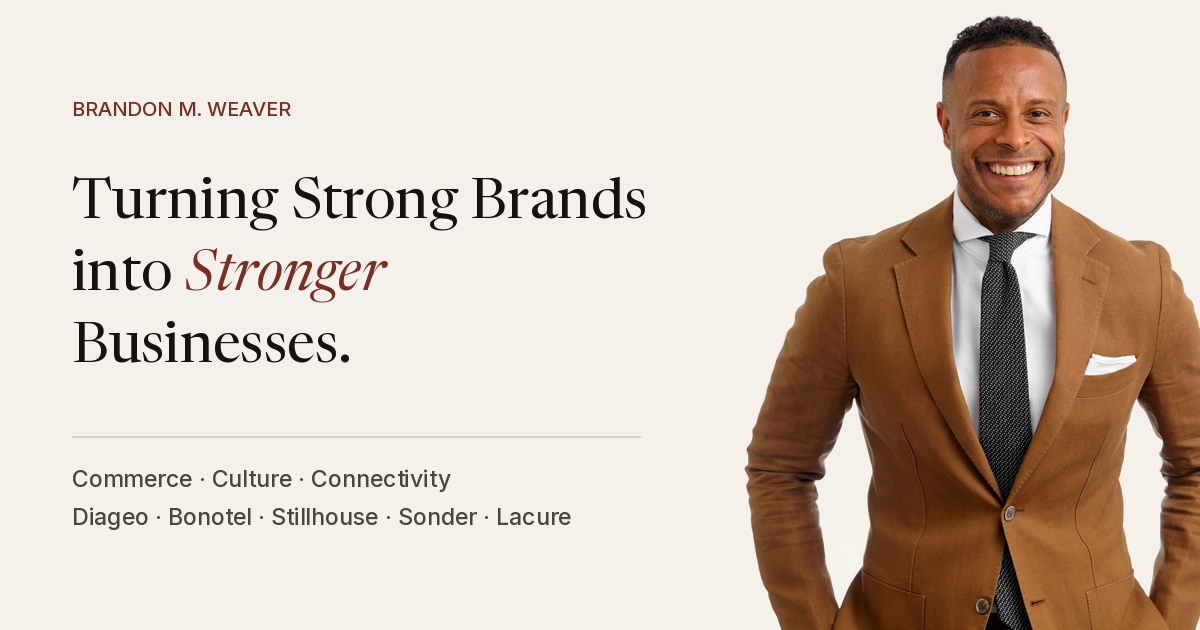
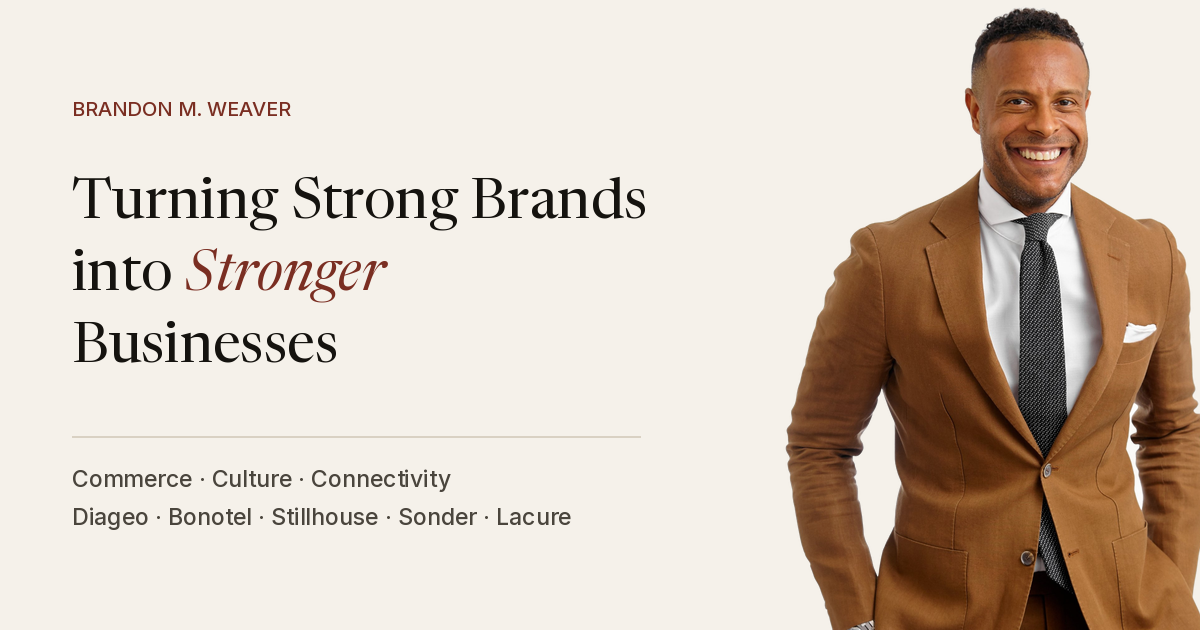
Site refinements (#2)
Claude-Session: https://claude.ai/code/session_01RkhWHDQpH7edepwexrD27q

Changed region(s): [[0.6167, 0.0, 1.0, 1.0]]

diff --git a/src/styles/global.css b/src/styles/global.css
@@ -120,12 +120,15 @@ p { margin: 0 0 1em; }
 }
 .btn:hover { background: var(--ink); border-color: var(--ink); color: var(--paper); }
 .link {
-  font-weight: 550; font-size: 0.9375rem; color: var(--ink); text-decoration: underline;
-  text-decoration-color: var(--rule); text-underline-offset: 6px; text-decoration-thickness: 1px;
-  transition: text-decoration-color .2s ease, color .2s ease;
+  display: inline-block;
+  font-weight: 600; font-size: 1.125rem; line-height: 1.4; color: var(--ink); text-decoration: none;
+  padding-bottom: 4px; border-bottom: 1px solid var(--rule);
+  transition: border-color .2s ease, color .2s ease;
 }
-.link:hover { color: var(--accent); text-decoration-color: var(--accent); }
-.link::after { content: ' →'; }
+.link:hover { color: var(--accent); border-bottom-color: var(--accent); }
+.link::after { content: '\00a0→'; display: inline-block; transition: transform .2s ease; }
+.link:hover::after { transform: translateX(3px); }
+.link--plain { font-size: 1rem; }
 .link--plain::after { content: none; }
 
 /* ---------- Reveal on scroll ---------- */

diff --git a/src/data/site.ts b/src/data/site.ts
@@ -343,8 +343,8 @@ export const celebrityFounders = [
   { name: 'Mark Wahlberg', brand: 'Flecha Azul Tequila' },
   { name: 'Gal Gadot', brand: 'Aspen Vodka' },
   { name: 'Benicio Del Toro', brand: 'Perro Verde' },
-  { name: 'Nacho Figueras', brand: 'Dom Pérignon' },
   { name: 'Michael Bublé', brand: 'Fraser & Thompson' },
+  { name: 'G-Eazy', brand: 'Stillhouse Spirits' },
 ];
 export const cultureCos = ['Universal Music', 'Sony Music', 'Complex', 'The FADER'];
 

diff --git a/README.md b/README.md
@@ -17,7 +17,7 @@ npm run build    # static output in dist/
 | All bio facts, roles, stats, testimonials, links | `src/data/site.ts` |
 | Writing list and videos | `src/data/writing.ts` |
 | Colors, type, spacing (design tokens) | `src/styles/global.css` |
-| Pages | `src/pages/` (`index`, `work`, `thought-leadership`, `about`, `404`) |
+| Pages | `src/pages/` (`index`, `experience`, `thought-leadership`, `about`, `404`) |
 | Contact form (Formspree) | `src/components/Contact.astro` |
 | Social share image, favicons | `public/og.png`, `public/favicon.svg` |
 
